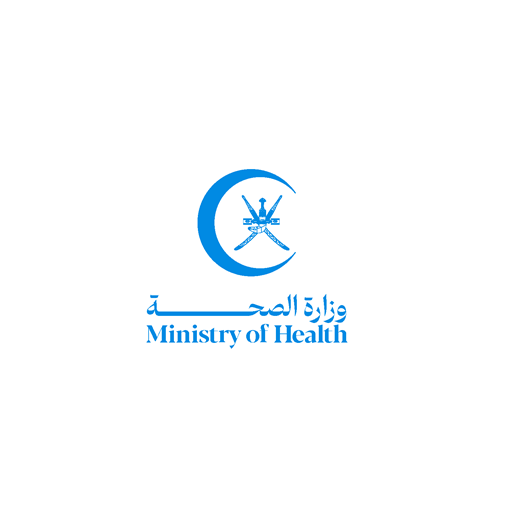
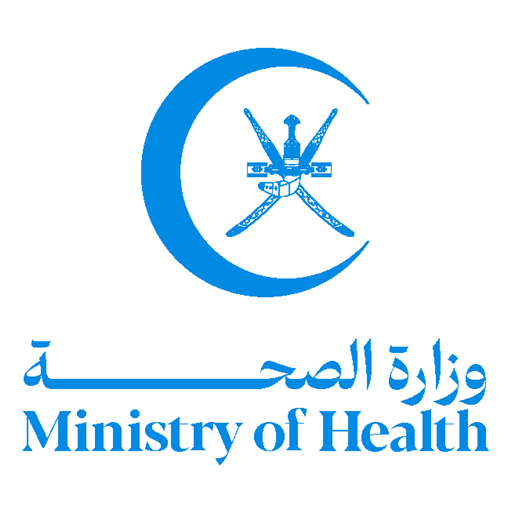
Add files via upload

Changed region(s): [[0.0312, 0.0938, 0.9688, 0.9062], [0.6875, 0.4688, 0.7188, 0.5], [0.4688, 0.2188, 0.5, 0.25]]

diff --git a/sw.js b/sw.js
@@ -1,6 +1,6 @@
 // Service Worker for Ambulance Log PWA
 // نظام سجل الإسعاف - دعم العمل بدون إنترنت
-const CACHE_NAME = 'ambulance-log-v24-square-icons';
+const CACHE_NAME = 'ambulance-log-v25-larger-icons';
 const OFFLINE_QUEUE_KEY = 'offline_queue';
 
 const urlsToCache = [
